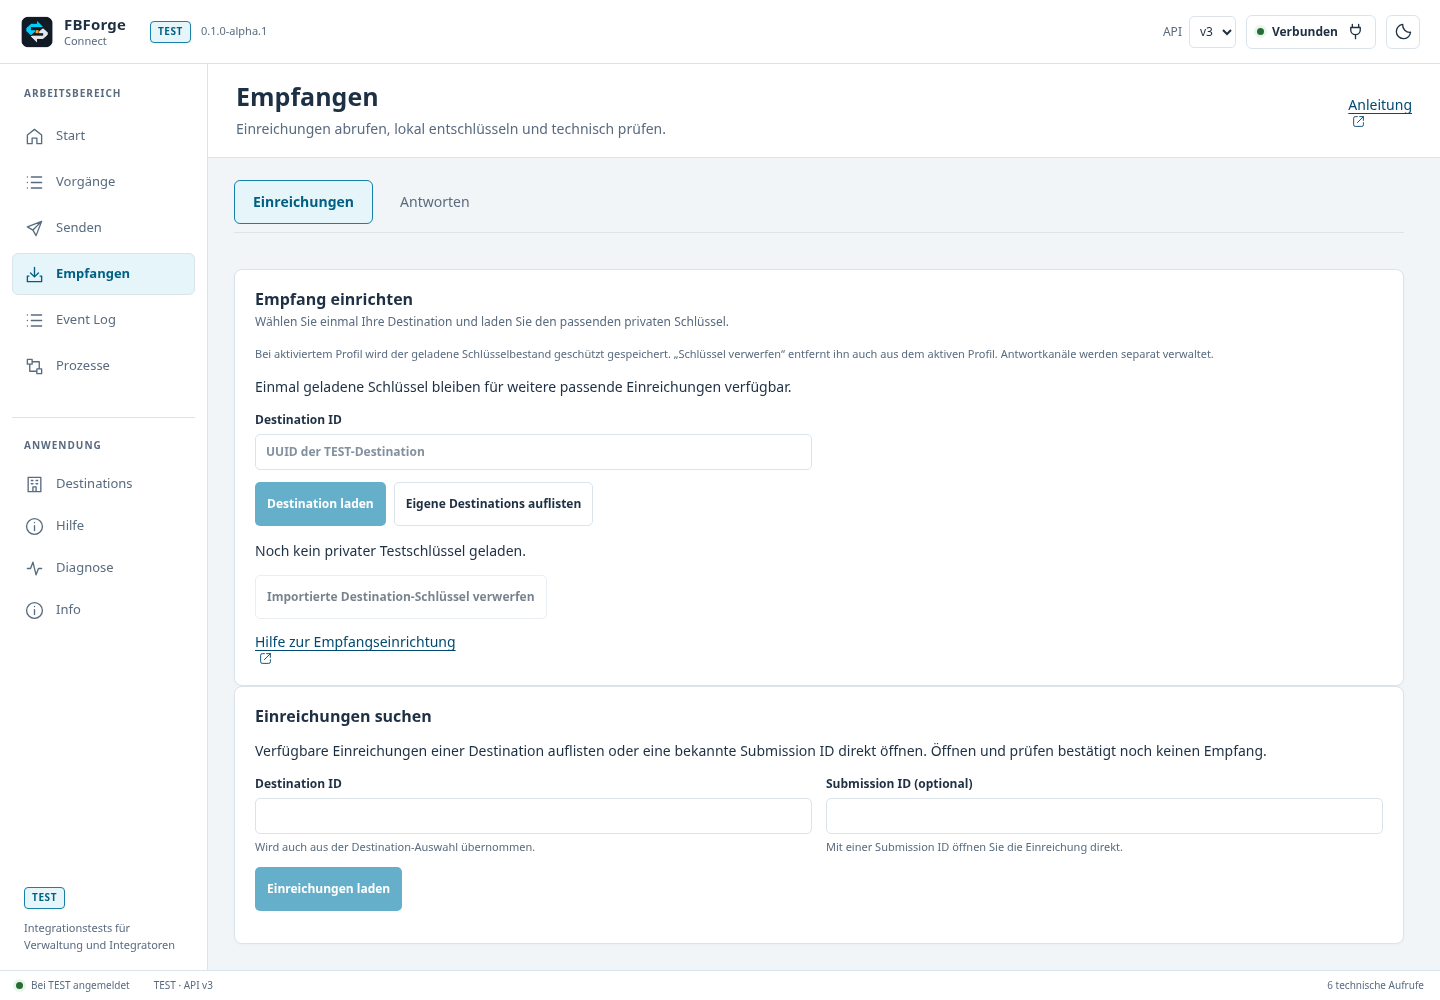
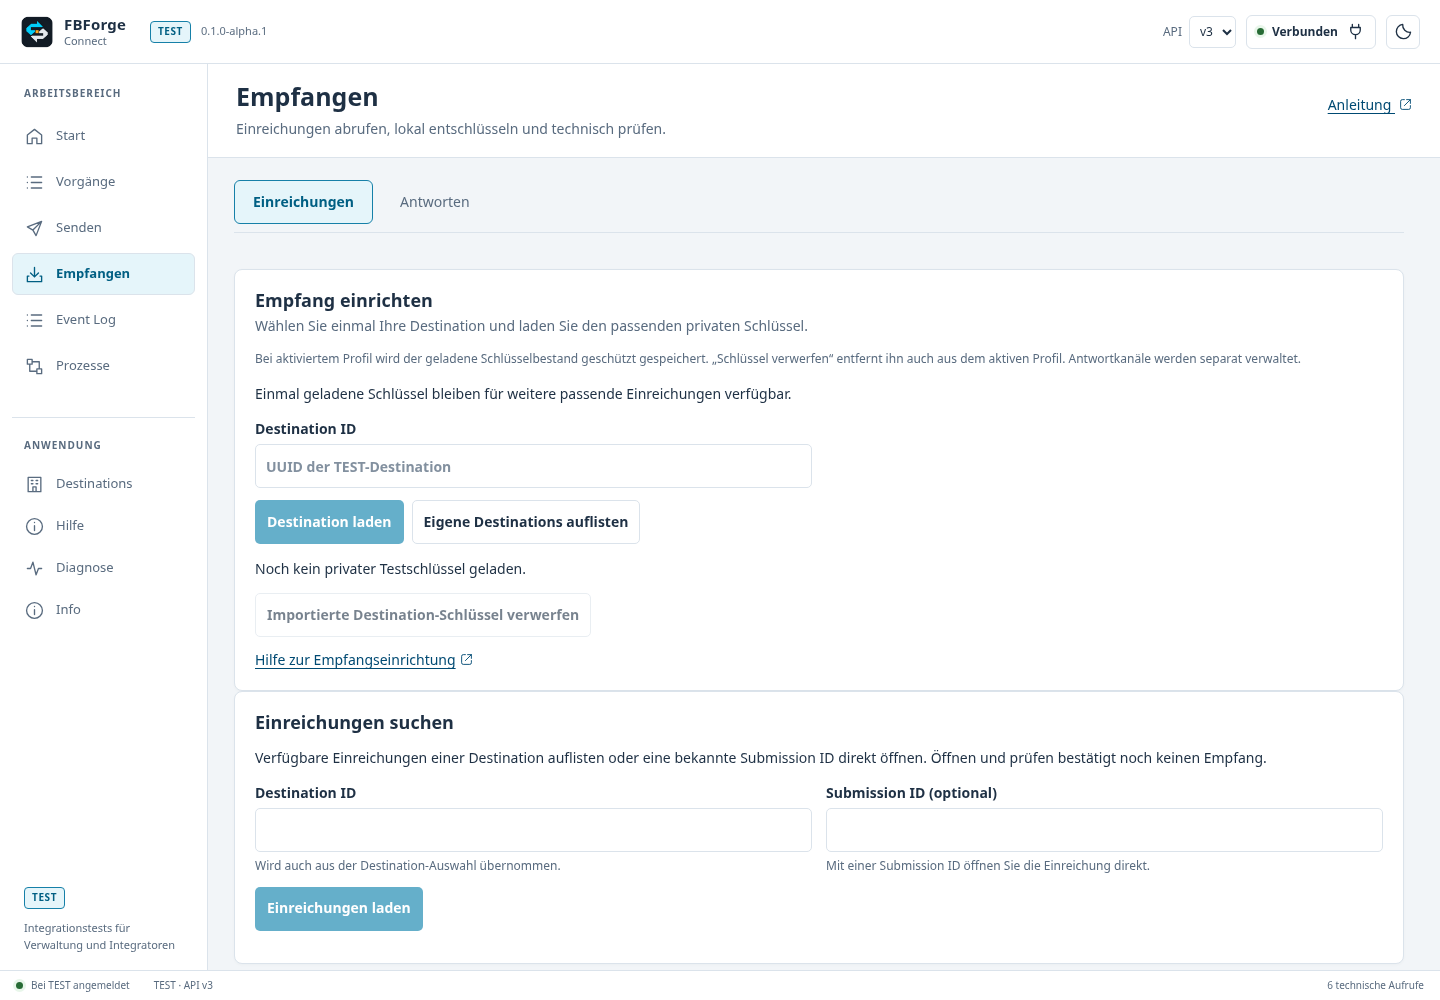
feat: polish forms and document review

diff --git a/tests/ui/scaling.spec.js b/tests/ui/scaling.spec.js
@@ -1,6 +1,45 @@
 import { test, expect } from '@playwright/test';
 import AxeBuilder from '@axe-core/playwright';
 
+test('reading and reply drafting tolerate increased text spacing at narrow widths', async ({ page }) => {
+  await page.setViewportSize({ width: 640, height: 700 });
+  await page.emulateMedia({ reducedMotion: 'reduce' });
+  await page.goto('http://127.0.0.1:1420/test-fixtures/application-view.html?browser=1');
+  await page.locator('#pickup-submission').fill('00000003-1111-4111-8111-111111111111');
+  await page.getByRole('button', { name: 'Einreichung öffnen und prüfen', exact: true }).click();
+  await expect(page.getByRole('heading', { name: 'Antrag lesen', exact: true })).toBeVisible();
+  await page.addStyleTag({
+    content:
+      '* { line-height: 1.5 !important; letter-spacing: .12em !important; word-spacing: .16em !important; } p { margin-bottom: 2em !important; }',
+  });
+  const noOverflow = () =>
+    page.evaluate(() => {
+      const workspace = document.querySelector('.workspace-scroll');
+      return workspace.scrollWidth <= workspace.clientWidth + 1;
+    });
+  expect(await noOverflow()).toBe(true);
+  const accept = page.getByRole('button', { name: 'Annehmen', exact: true });
+  await accept.scrollIntoViewIfNeeded();
+  await expect(accept).toBeInViewport();
+  await page.getByRole('button', { name: 'Antwort verfassen', exact: true }).click();
+  await expect(page.locator('#reply-data')).toBeFocused();
+  await page.locator('#reply-data').fill('{"status":"erhalten"}');
+  expect(await noOverflow()).toBe(true);
+  await page.emulateMedia({ forcedColors: 'active', reducedMotion: 'reduce' });
+  await page.locator('#reply-data-file').focus();
+  await expect(page.locator('#reply-data-file')).toBeFocused();
+  expect(
+    await page
+      .locator('.file-drop-picker')
+      .filter({ has: page.locator('#reply-data-file') })
+      .evaluate((el) => getComputedStyle(el).outlineStyle),
+  ).toBe('solid');
+  const result = await new AxeBuilder({ page })
+    .withTags(['wcag2a', 'wcag2aa', 'wcag21aa', 'wcag22aa'])
+    .analyze();
+  expect(result.violations.map(({ id }) => id)).toEqual([]);
+});
+
 // Representative Full-HD client area at Windows-like device scales. This checks
 // CSS reflow and accessibility, not the real monitor DPI or a spoken screen reader.
 for (const scale of [1.25, 1.5, 2]) {

diff --git a/frontend/src/desktop.css b/frontend/src/desktop.css
@@ -313,14 +313,14 @@ summary {
 }
 .workspace-content .tool-section h2 {
   margin-bottom: 10px;
-  font-size: 16px;
+  font-size: 18px;
   font-weight: 650;
 }
 .workspace-content .tool-section h3 {
-  font-size: 14px;
+  font-size: 15px;
 }
 .workspace-content .tool-section > p {
-  font-size: 12px;
+  font-size: 14px;
   line-height: 1.6;
 }
 .workspace-content .tool-section-heading {
@@ -331,7 +331,7 @@ summary {
   margin-bottom: 5px;
 }
 .workspace-content .tool-section-heading p {
-  font-size: 12px;
+  font-size: 14px;
   color: var(--muted);
 }
 .workspace-content .client-fields,
@@ -341,12 +341,12 @@ summary {
 }
 .workspace-content .client-fields label {
   gap: 5px;
-  font-size: 12px;
+  font-size: 14px;
   font-weight: 550;
 }
 .workspace-content small,
 .small-note {
-  font-size: 11px;
+  font-size: 12px;
   font-weight: 400;
   color: var(--muted);
 }
@@ -361,7 +361,7 @@ summary {
   border-radius: 6px;
 }
 .workspace-content legend {
-  font-size: 12px;
+  font-size: 14px;
   font-weight: 650;
 }
 .workspace-content input:not([type]),
@@ -375,19 +375,19 @@ summary {
   min-width: 0;
   max-width: 100%;
   border-radius: 5px;
-  min-height: 36px;
-  font-size: 12px;
+  min-height: 44px;
+  font-size: 14px;
 }
 .workspace-content textarea {
   font-family: var(--font-mono);
-  font-size: 12px;
+  font-size: 14px;
 }
 .workspace-content .button,
 .connection-dialog .button {
   min-height: 34px;
   padding: 7px 11px;
   border-radius: 5px;
-  font-size: 12px;
+  font-size: 14px;
   font-weight: 600;
 }
 .workspace-content .client-actions {
@@ -423,7 +423,7 @@ summary {
 }
 .workspace-content details > summary {
   cursor: pointer;
-  font-size: 12px;
+  font-size: 14px;
   color: var(--muted);
   padding: 8px 0;
 }
@@ -806,7 +806,7 @@ summary {
 .workspace-content .send-form > fieldset > label:not(.checkbox-label) {
   display: grid;
   gap: 5px;
-  font-size: 12px;
+  font-size: 14px;
   font-weight: 550;
 }
 .workspace-content .send-form > fieldset {
@@ -1154,6 +1154,7 @@ summary {
 }
 
 .documentation-link .app-icon {
+  display: inline-block;
   width: 13px;
   height: 13px;
   margin-inline-start: 4px;

diff --git a/tests/ui/file-drop.spec.js b/tests/ui/file-drop.spec.js
@@ -14,11 +14,13 @@ test('file drops support one/many files, cancellation, disabled controls and key
   ];
   await dropFiles(page, one, files);
   await expect(one.getByRole('alert')).toHaveText('Bitte hier genau eine Datei auswählen oder ablegen.');
+  await expect(page.locator('#single-file')).toHaveAttribute('aria-invalid', 'true');
   await expect(page.getByRole('status')).toHaveText('0');
   await dropFiles(page, one, []);
   await expect(one.getByRole('alert')).toContainText('lokale Datei');
   await dropFiles(page, one, [files[0]]);
   await expect(page.getByTestId('file-names')).toHaveText('eins.json');
+  await expect(page.locator('#single-file')).not.toHaveAttribute('aria-invalid', 'true');
   await expect(page.getByRole('status')).toHaveText('1');
   await page.getByRole('button', { name: 'Dateiablage sperren oder freigeben', exact: true }).click();
   await dropFiles(page, one, [files[1]]);
@@ -35,6 +37,15 @@ test('file drops support one/many files, cancellation, disabled controls and key
       .locator('#single-file')
       .setInputFiles({ name: 'gleich.json', mimeType: 'application/json', buffer: Buffer.from('{}') });
   await expect(page.getByRole('status')).toHaveText('4');
+  const input = page.locator('#single-file');
+  await input.focus();
+  const [picker] = await Promise.all([page.waitForEvent('filechooser'), input.press('Enter')]);
+  await picker.setFiles({ name: 'tastatur.json', mimeType: 'application/json', buffer: Buffer.from('{}') });
+  await expect(page.getByTestId('file-names')).toHaveText('tastatur.json');
+  await expect(page.getByRole('status')).toHaveText('5');
+  const [cancelled] = await Promise.all([page.waitForEvent('filechooser'), input.press('Enter')]);
+  await cancelled.setFiles([]);
+  await expect(page.getByRole('status')).toHaveText('5');
   expect(
     (await new AxeBuilder({ page }).withTags(['wcag2a', 'wcag2aa', 'wcag21aa', 'wcag22aa']).analyze())
       .violations,

diff --git a/frontend/src/SubmissionSender.vue b/frontend/src/SubmissionSender.vue
@@ -715,15 +715,6 @@ async function refreshState() {
       </fieldset>
       <fieldset v-show="sendStep === 1" data-send-step="1" :disabled="disabled">
         <legend tabindex="-1">Fachdaten</legend>
-        <FileDropInput
-          id="send-data-file"
-          label="Fachdaten aus Datei (optional)"
-          accept=".json,.xml,application/json,application/xml,text/xml"
-          :disabled="disabled"
-          @files="(files) => (dataFile = files[0] || null)"
-        >
-          Ohne Datei wird der Inhalt aus dem Eingabefeld verwendet.
-        </FileDropInput>
         <SchemaSourceConsent id="send-schema-sources" v-model="allowExternalSchemas" :disabled="disabled" />
 
         <div class="client-actions">
@@ -759,6 +750,15 @@ async function refreshState() {
             </button>
           </p>
         </DraftDataPreview>
+        <FileDropInput
+          id="send-data-file"
+          label="Fachdaten aus Datei (optional)"
+          accept=".json,.xml,application/json,application/xml,text/xml"
+          :disabled="disabled"
+          @files="(files) => (dataFile = files[0] || null)"
+        >
+          Ohne Datei wird der Inhalt aus dem Eingabefeld verwendet.
+        </FileDropInput>
         <details class="data-schema-options">
           <summary>Schema und technische Optionen</summary>
           <div class="client-fields">

diff --git a/frontend/src/FileDropInput.vue b/frontend/src/FileDropInput.vue
@@ -61,15 +61,21 @@ function leave() {
       {{ multiple ? 'Dateien hierher ziehen oder auswählen.' : 'Datei hierher ziehen oder auswählen.' }}
       <slot />
     </p>
-    <input
-      :id="id"
-      type="file"
-      :accept="accept"
-      :multiple="multiple"
-      :disabled="disabled"
-      :aria-describedby="`${id}-help`"
-      @change="change"
-    />
-    <p v-if="error" role="alert">{{ error }}</p>
+    <div class="file-drop-picker">
+      <input
+        :id="id"
+        type="file"
+        :accept="accept"
+        :multiple="multiple"
+        :disabled="disabled"
+        :aria-invalid="error ? true : undefined"
+        :aria-describedby="error ? `${id}-help ${id}-error` : `${id}-help`"
+        @change="change"
+      />
+      <span class="button secondary" aria-hidden="true">
+        {{ multiple ? 'Dateien auswählen' : 'Datei auswählen' }}
+      </span>
+    </div>
+    <p v-if="error" :id="`${id}-error`" role="alert">{{ error }}</p>
   </div>
 </template>

diff --git a/frontend/src/layout.css b/frontend/src/layout.css
@@ -183,9 +183,36 @@
   display: block;
   font-weight: 600;
 }
-.file-drop-zone > input {
-  width: 100%;
+.file-drop-picker {
+  position: relative;
+  display: inline-grid;
   max-width: 100%;
+  border-radius: 5px;
+}
+.file-drop-picker > input {
+  position: absolute;
+  inset: 0;
+  z-index: 1;
+  width: 100%;
+  height: 100%;
+  margin: 0;
+  opacity: 0;
+  cursor: pointer;
+}
+.file-drop-picker > .button {
+  min-height: 44px;
+  padding: 10px 14px;
+  font-size: 14px;
+}
+.file-drop-picker:focus-within {
+  outline: 2px solid var(--accent);
+  outline-offset: 3px;
+}
+.file-drop-picker:has(input:disabled) {
+  opacity: 0.65;
+}
+.file-drop-picker > input:disabled {
+  cursor: default;
 }
 .connection-panel > details > summary {
   cursor: pointer;

diff --git a/frontend/src/DraftDataPreview.vue b/frontend/src/DraftDataPreview.vue
@@ -91,7 +91,6 @@ async function open() {
     <div v-show="!preview" class="draft-data-editor"><slot /></div>
     <p v-if="notice" class="small-note" role="status">{{ notice }}</p>
     <div v-if="preview" class="draft-inline-preview" aria-label="Lokale Fachdatenansicht">
-      <p class="small-note">Lesende Ansicht. Zum Ändern wählen Sie „Bearbeiten“.</p>
       <StructuredData
         v-if="preview.kind === 'text' && preview.format"
         :text="preview.rawText"

diff --git a/frontend/src/application-view.css b/frontend/src/application-view.css
@@ -327,6 +327,19 @@
   color: var(--muted);
   padding: 6px 0;
 }
+.verification-stages {
+  display: flex;
+  flex-wrap: wrap;
+  gap: 8px;
+  margin-block: 16px;
+}
+.verification-stages > p {
+  margin: 0;
+  min-width: 0;
+}
+.verification-stages .status-badge {
+  white-space: normal;
+}
 .draft-data-editor,
 .draft-inline-preview {
   margin-top: 16px;
